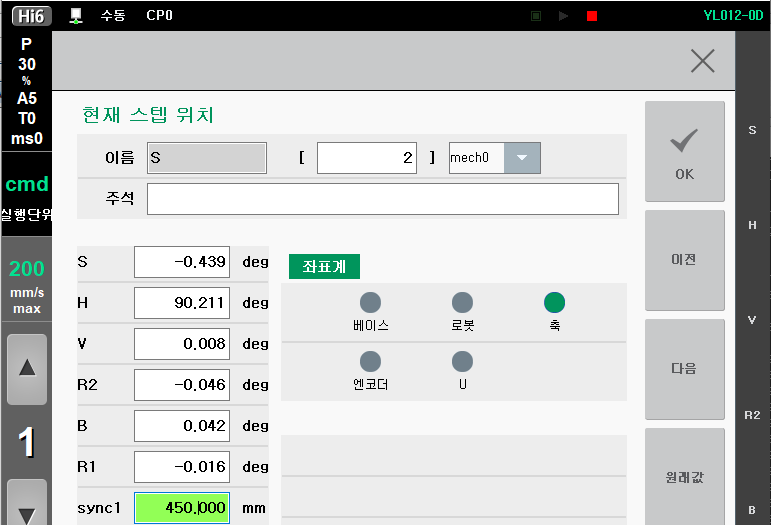
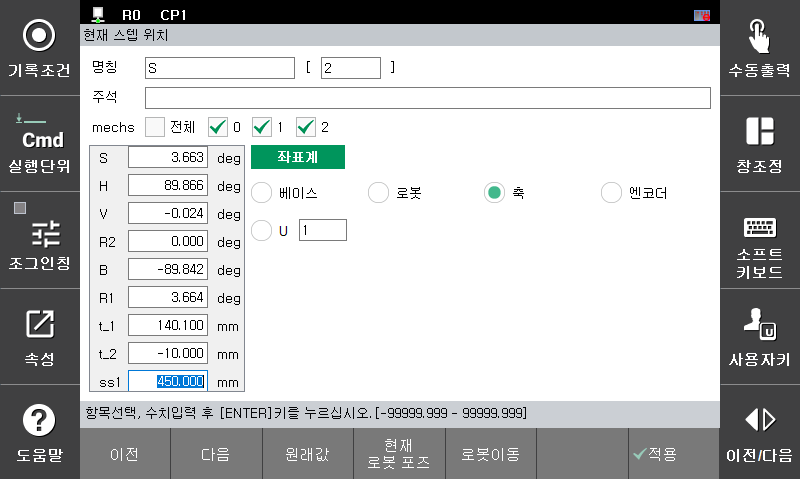
TP630화면으로 교체 및 multiprog관련 목차 삭제

diff --git a/SUMMARY.md b/SUMMARY.md
@@ -10,7 +10,6 @@
 * [2. 시스템 구성 및 접속](2-system-config-access/README.md)
   * [2.1 컨베이어 I/F 보드](2-system-config-access/2-1-conveyor-if-board/README.md)
     * [2.1.1 지원 모듈](2-system-config-access/2-1-conveyor-if-board/1-support-module.md)
-    * [2.1.2 PLC 프로그램](2-system-config-access/2-1-conveyor-if-board/2-plc-program.md)
   * [2.2 하드웨어 점검](2-system-config-access/2-2-hardware-inspection.md)
 * [3. 사용자 인터페이스](3-user-interface/README.md)
   * [3.1 컨베이어 각도 자동설정](3-user-interface/3-1-conveyor-angle-auto-set/README.md)

diff --git a/3-user-interface/3-4-monitoring.md b/3-user-interface/3-4-monitoring.md
@@ -33,7 +33,7 @@
     리밋스위치가 동작중인지 상태를 표시합니다.
 
     &#x20;
-*   &#x20;<mark style="color:green;"></mark> <mark style="color:green;"></mark><mark style="color:green;">**raw 펄스**</mark>
+*   <mark style="color:green;">**raw 펄스**</mark>
 
     입력되는 엔코더 펄스의 값을 hex 데이터로 표시합니다. 정상인 경우 0 \~ ffff까지 반복합니다.
 

diff --git a/3-user-interface/3-5-step-data.md b/3-user-interface/3-5-step-data.md
@@ -6,6 +6,6 @@
 
 ![](../_assets/image34.png)
 
-현재 스텝 위치에서 sync 항목에서 해당 스텝에 기록된 작업물의 위치를 확인하고 수정할 수도 있습니다.
+현재 스텝 위치 속성의 ss# 항목에서 해당 스텝에 기록된 작업물의 위치를 확인하고 수정할 수도 있습니다.
 
 ![](../_assets/image35.png)
